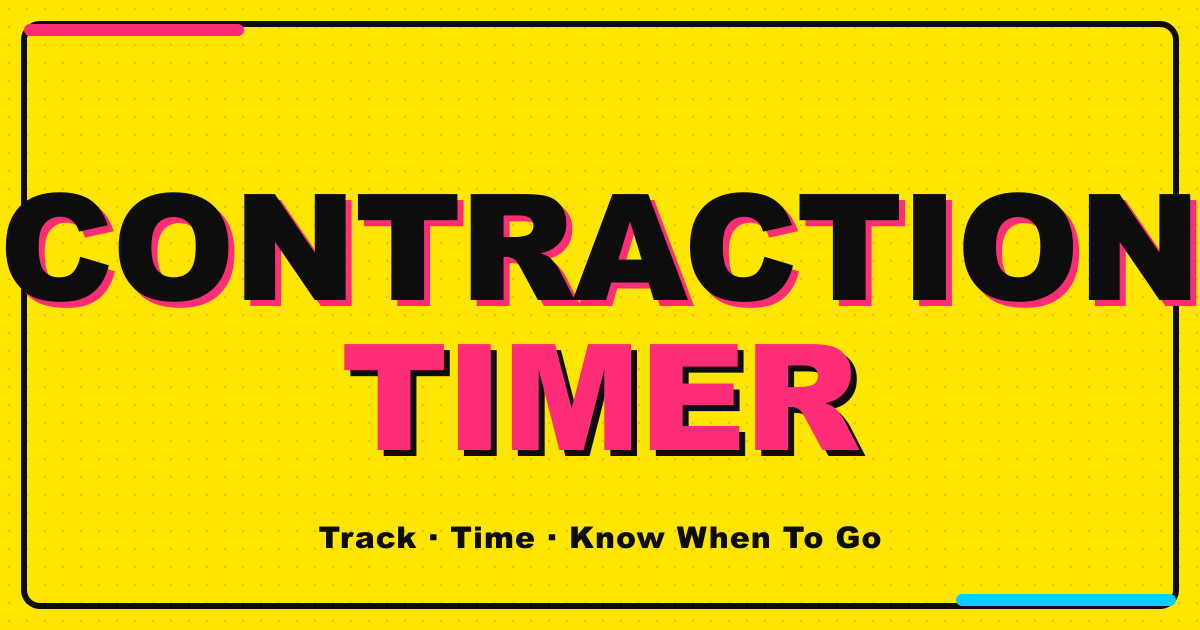
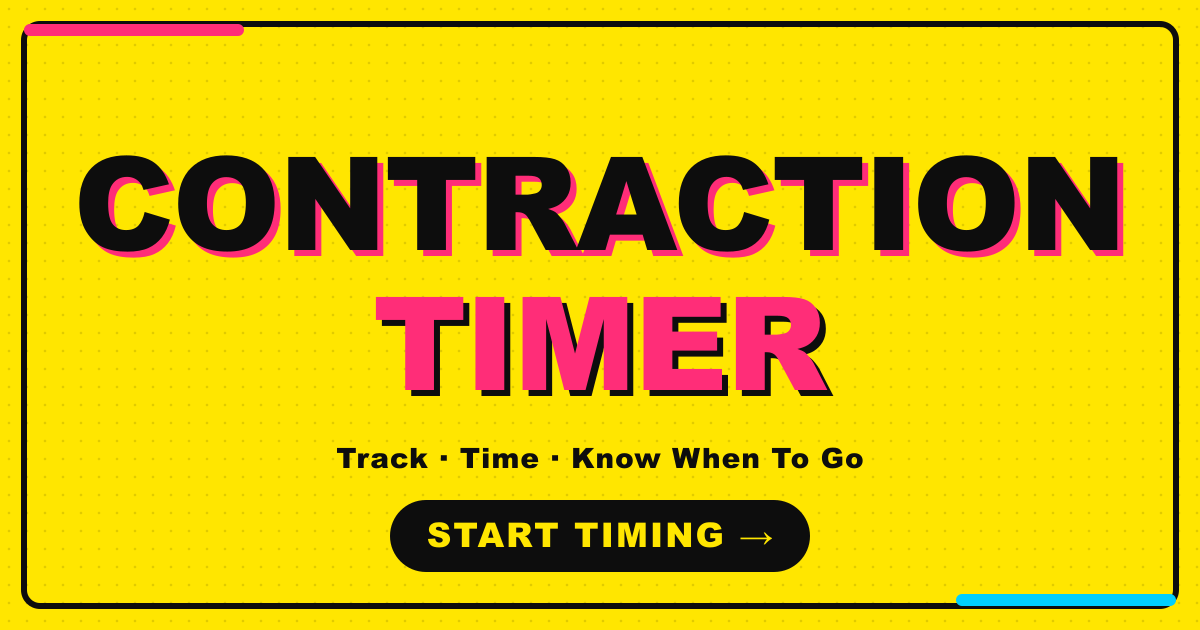
Improve OG share card: CTA button, longer title and description
- Add 'START TIMING →' CTA pill button to og-image
- Expand title to 50 chars (was 17)
- Expand description to 153 chars (was 85)
- Regenerate PNG from updated SVG

Changed region(s): [[0.0, 0.2413, 1.0, 0.754], [0.2467, 0.7841, 0.74, 0.9349]]

diff --git a/public/index.html b/public/index.html
@@ -8,16 +8,16 @@
   <!-- Open Graph / share card — update the domain below when you know your URL -->
   <meta property="og:type"        content="website" />
   <meta property="og:url"         content="https://contraction-timer.com/" />
-  <meta property="og:title"       content="Contraction Timer" />
-  <meta property="og:description" content="Track contractions, see patterns, know when to go. Free, private — no account needed." />
+  <meta property="og:title"       content="Contraction Timer · Track Labour &amp; Know When to Go" />
+  <meta property="og:description" content="Track your contractions, see patterns in frequency and duration, and know exactly when it's time to head to hospital. Free &amp; private — no account needed." />
   <meta property="og:image"       content="https://contraction-timer.com/og-image.png" />
   <meta property="og:image:width"  content="1200" />
   <meta property="og:image:height" content="630" />
 
   <!-- Twitter / X card -->
   <meta name="twitter:card"        content="summary_large_image" />
-  <meta name="twitter:title"       content="Contraction Timer" />
-  <meta name="twitter:description" content="Track contractions, see patterns, know when to go. Free, private — no account needed." />
+  <meta name="twitter:title"       content="Contraction Timer · Track Labour &amp; Know When to Go" />
+  <meta name="twitter:description" content="Track your contractions, see patterns in frequency and duration, and know exactly when it's time to head to hospital. Free &amp; private — no account needed." />
   <meta name="twitter:image"       content="https://contraction-timer.com/og-image.png" />
 
   <link rel="stylesheet" href="style.css" />